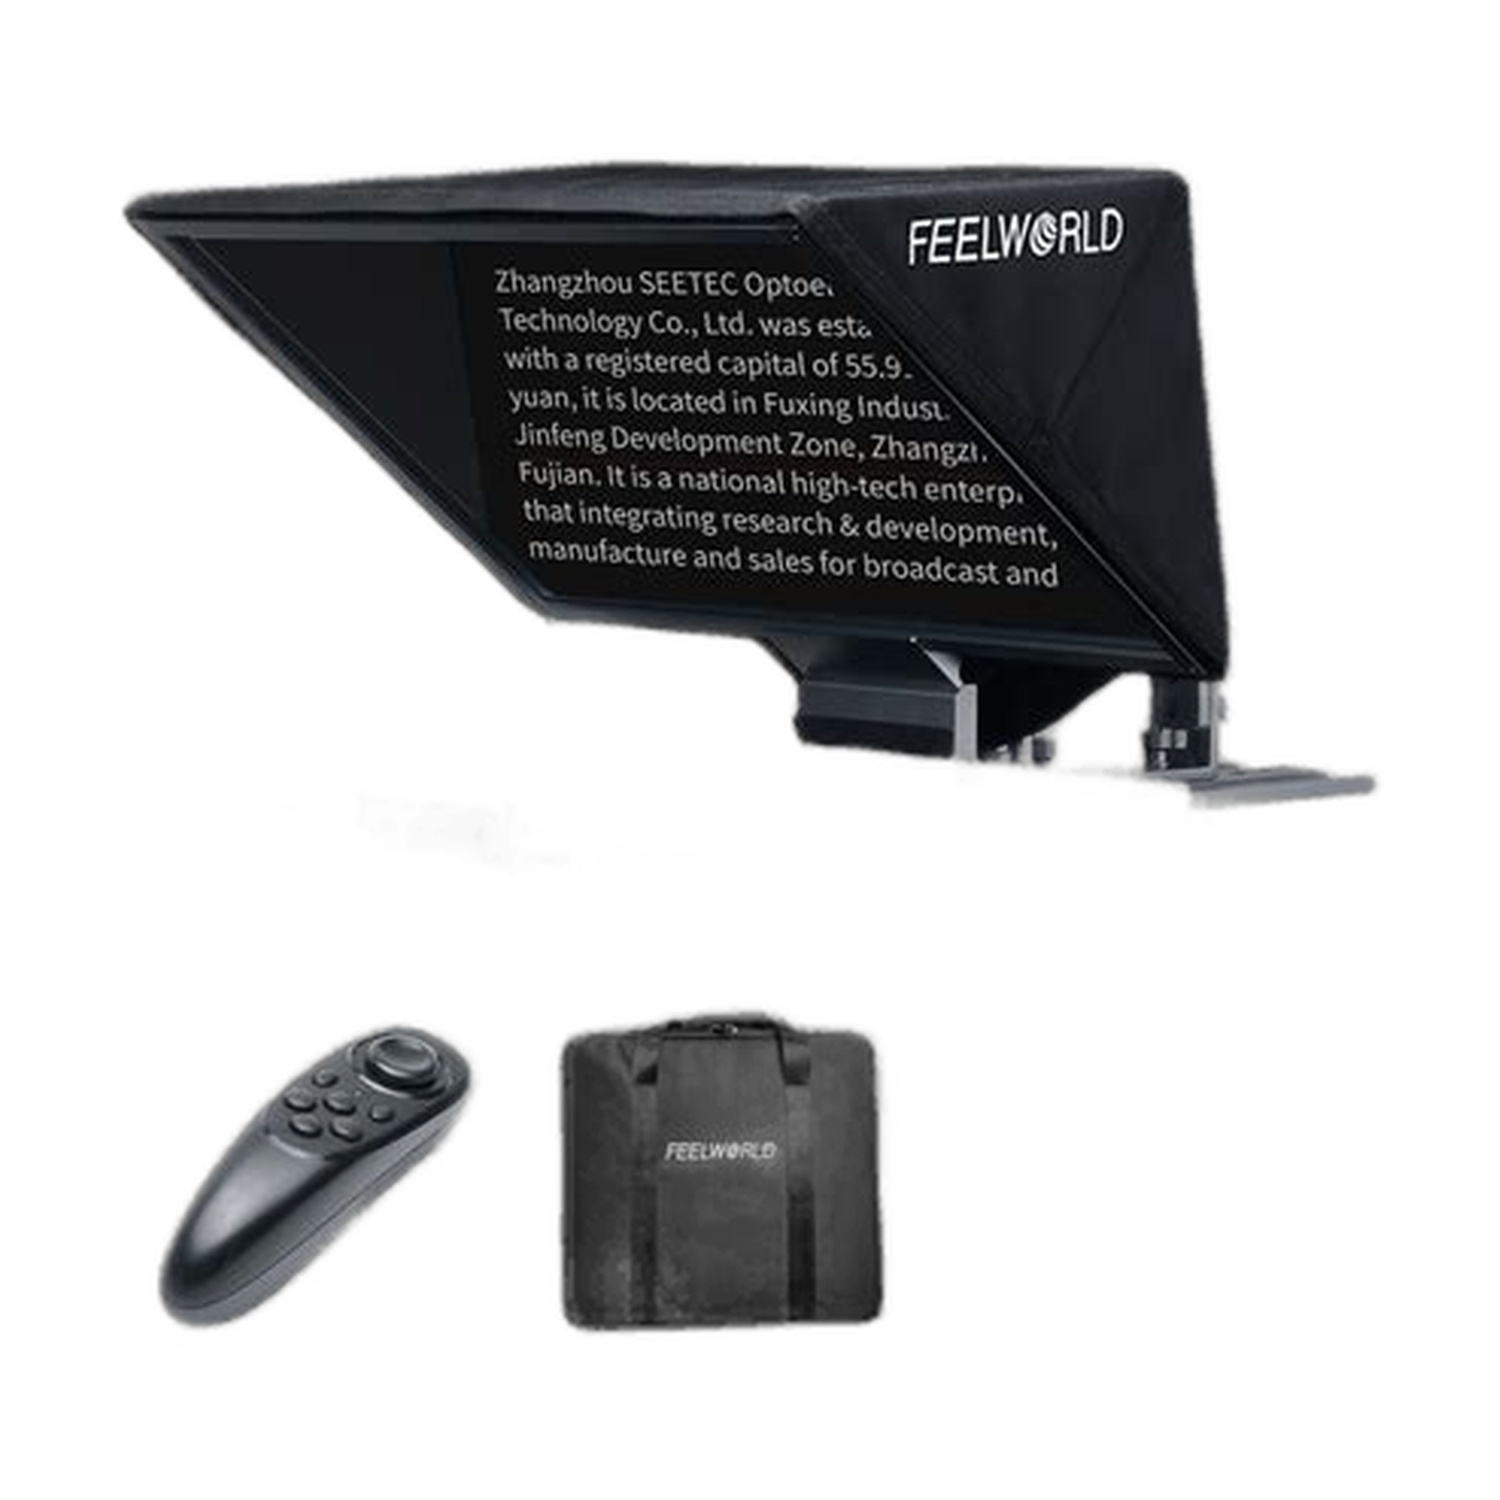
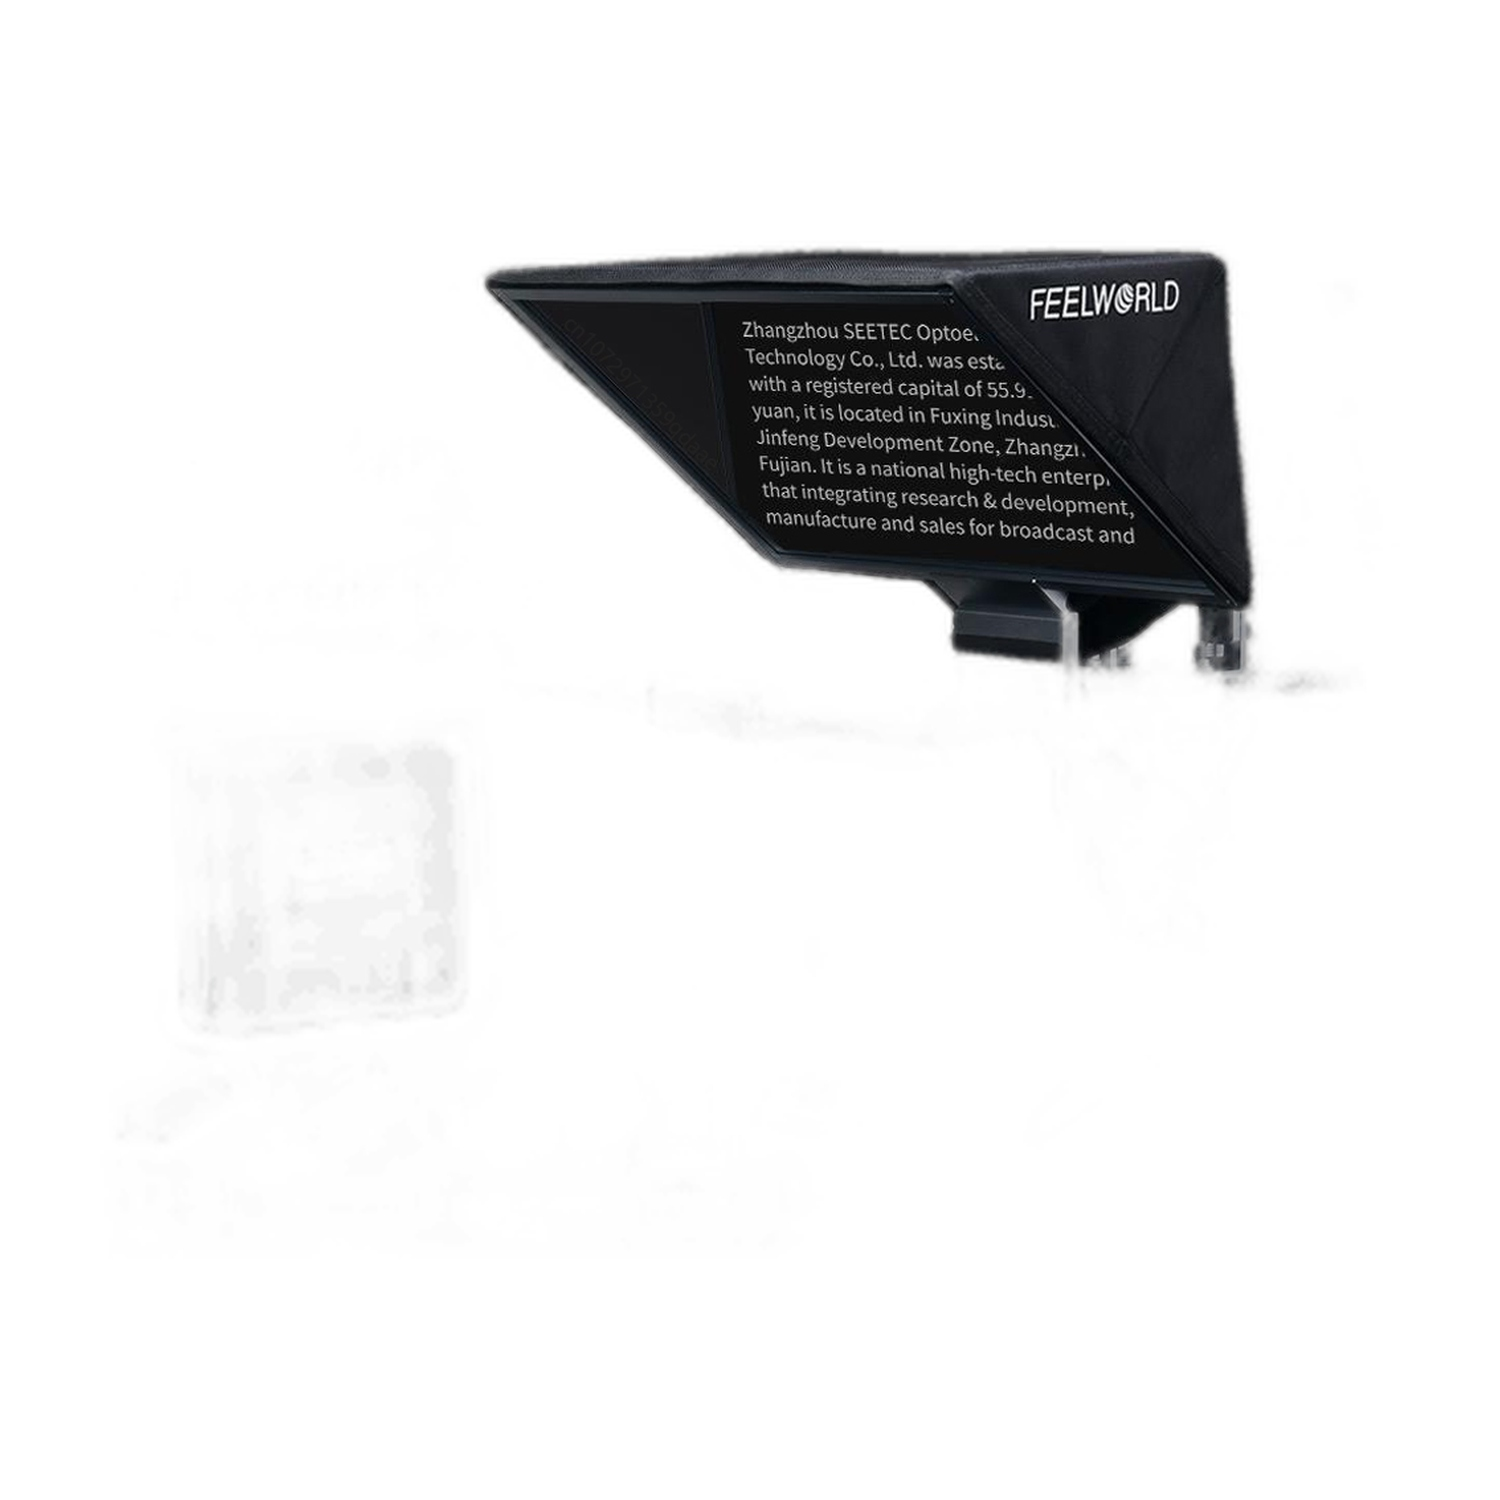
Update: deploy verified 100% authentic ultra-crisp studio photos for all 5 Teleprompters

Changed region(s): [[0.0613, 0.092, 0.92, 0.552], [0.368, 0.6747, 0.6133, 0.8893], [0.092, 0.6747, 0.3373, 0.8893]]

diff --git a/js/store.js b/js/store.js
@@ -2,7 +2,7 @@
 // Camera Store Database & State Layer - TOP CAM Jordan
 
 const STORE_KEYS = {
-  PRODUCTS: 'camera_store_products_v32_clean_kits',
+  PRODUCTS: 'camera_store_products_v33_prompters_perfect',
   DELETED_IDS: 'camera_store_deleted_ids_v32_clean',
   ORDERS: 'camera_store_orders_v1',
   CART: 'camera_store_cart_v1',
